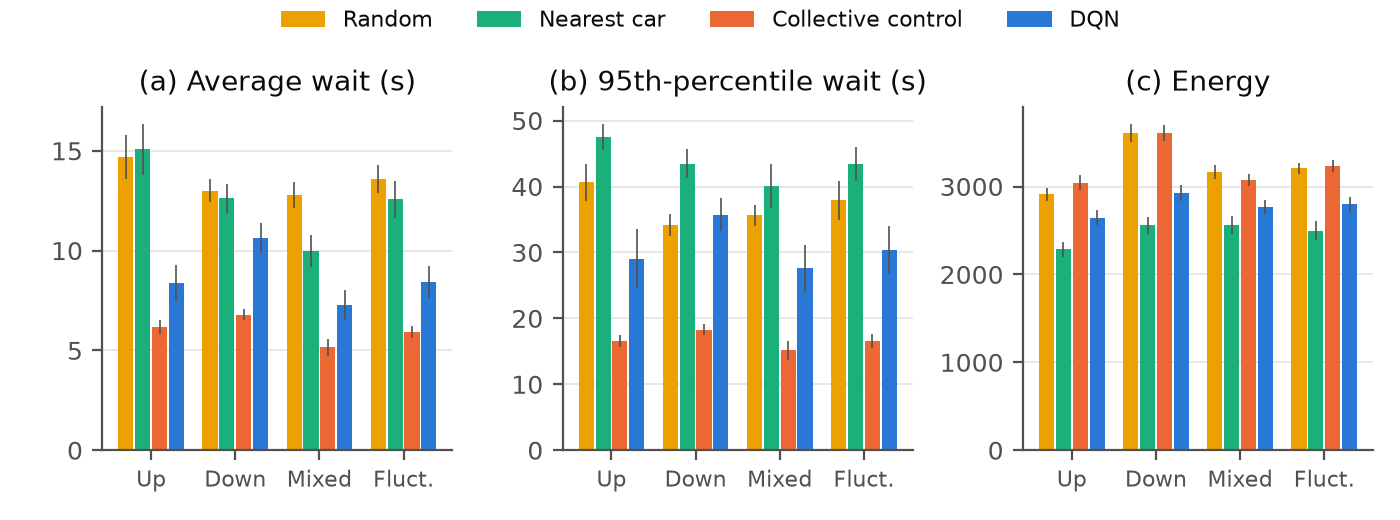
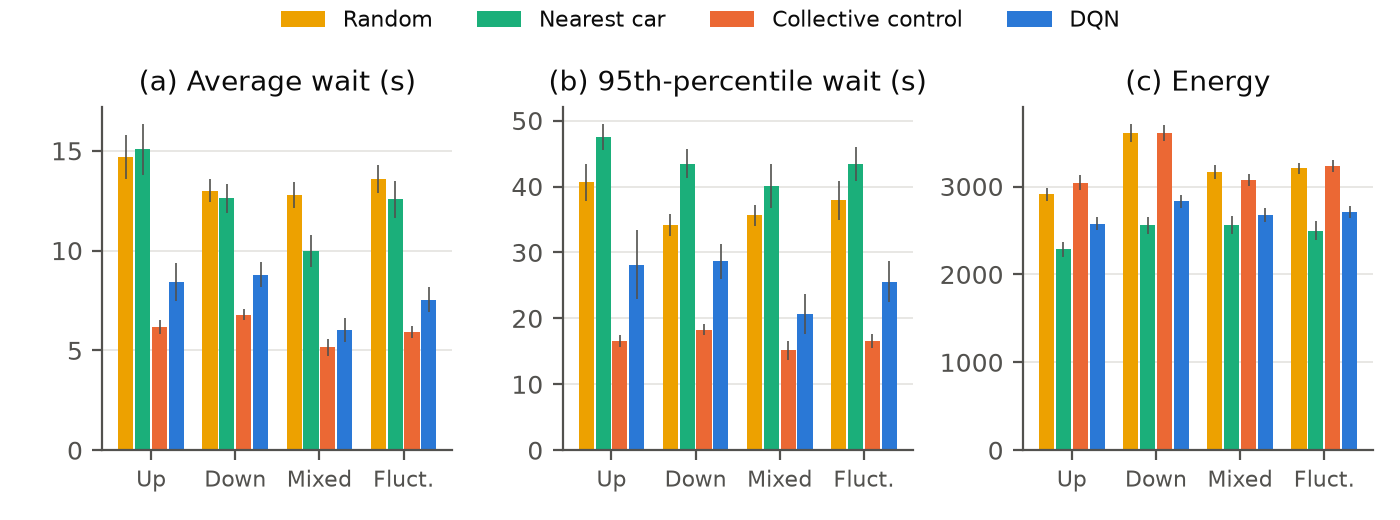
Read DQN state size from env; re-evaluate and re-plot with improved model

diff --git a/evaluate.py b/evaluate.py
@@ -34,8 +34,8 @@ def make_baselines():
 
 
 def load_dqn(cfg, path):
-    n = cfg["building"]["n_elevators"]
-    agent = DQNAgent(6 * n + 3, n, cfg["dqn"])
+    env = ElevatorEnv(cfg)                 # state size comes from the environment
+    agent = DQNAgent(env.obs_dim, env.n_elev, cfg["dqn"])
     agent.load(path)
     return agent
 
